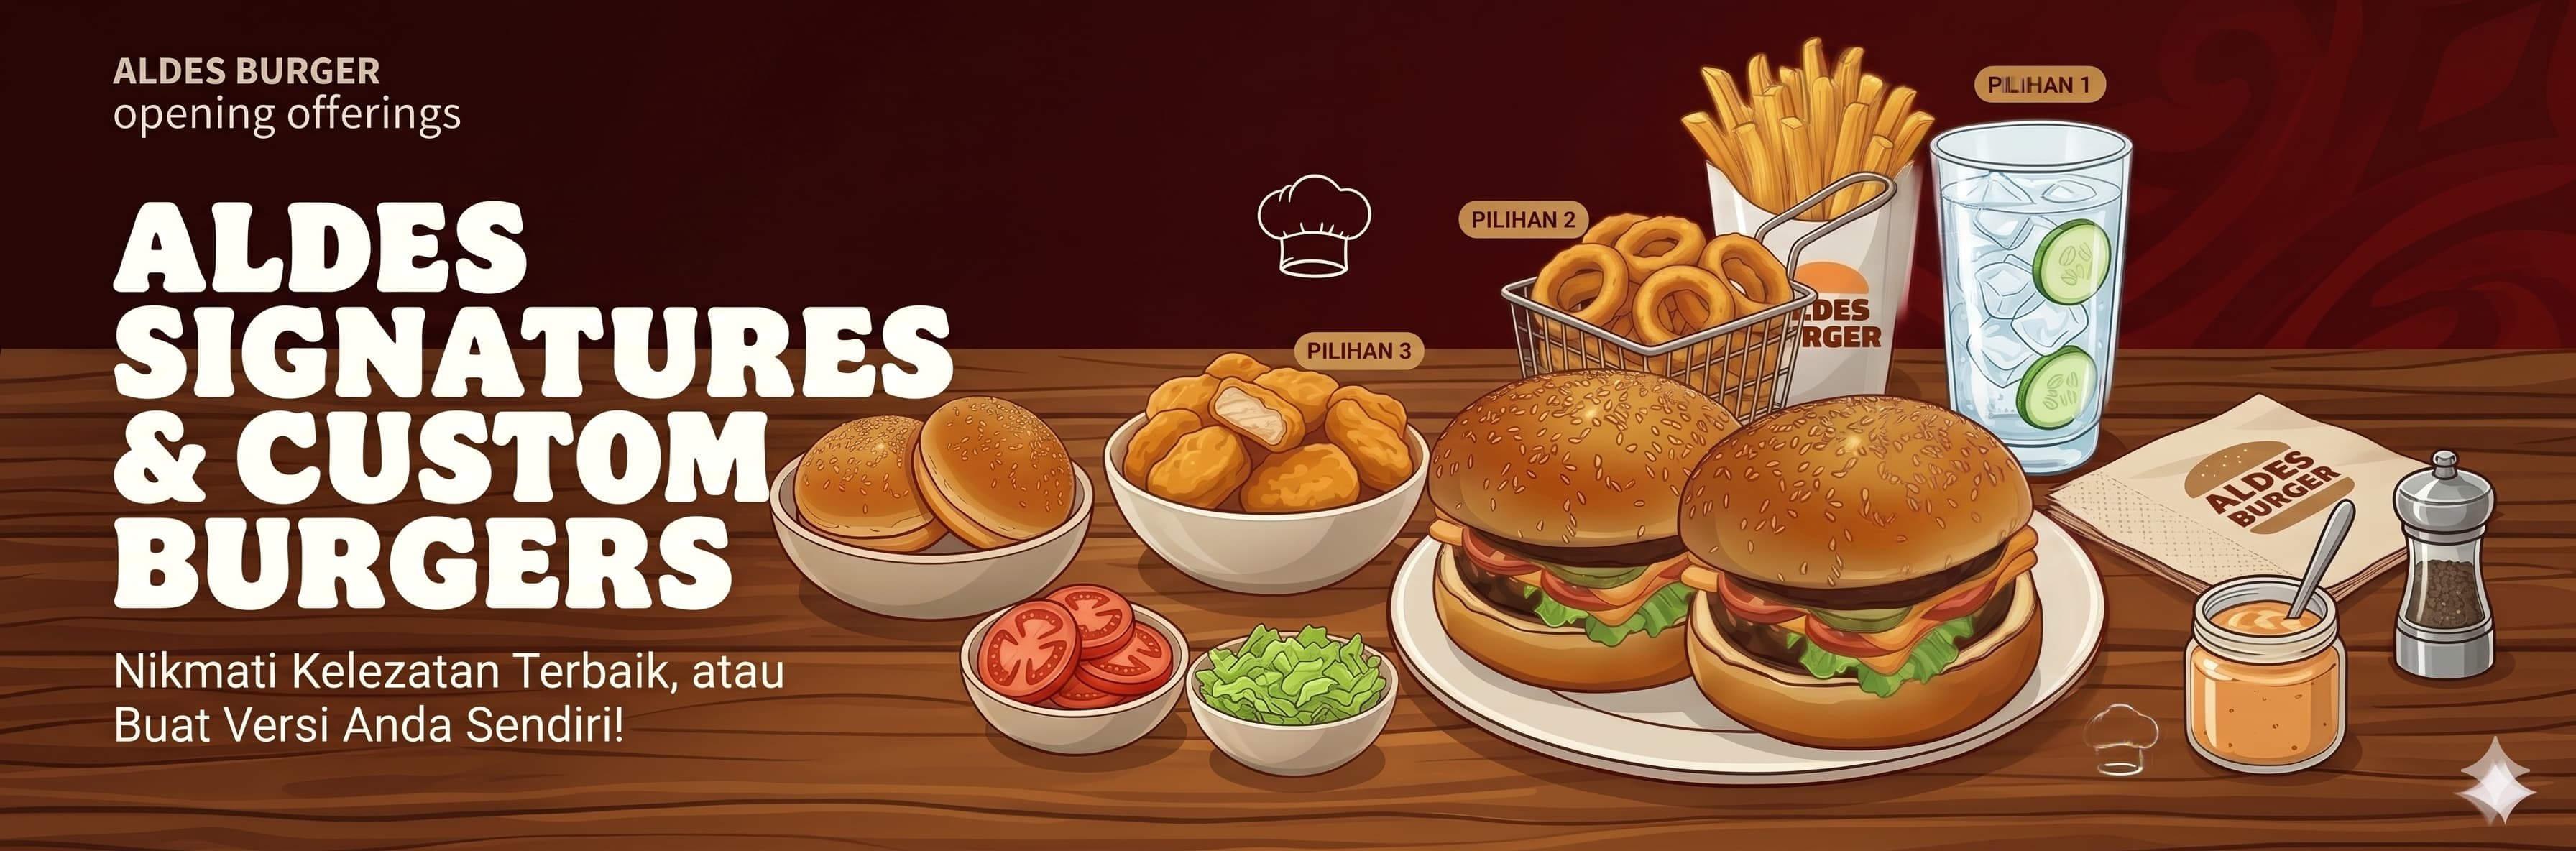
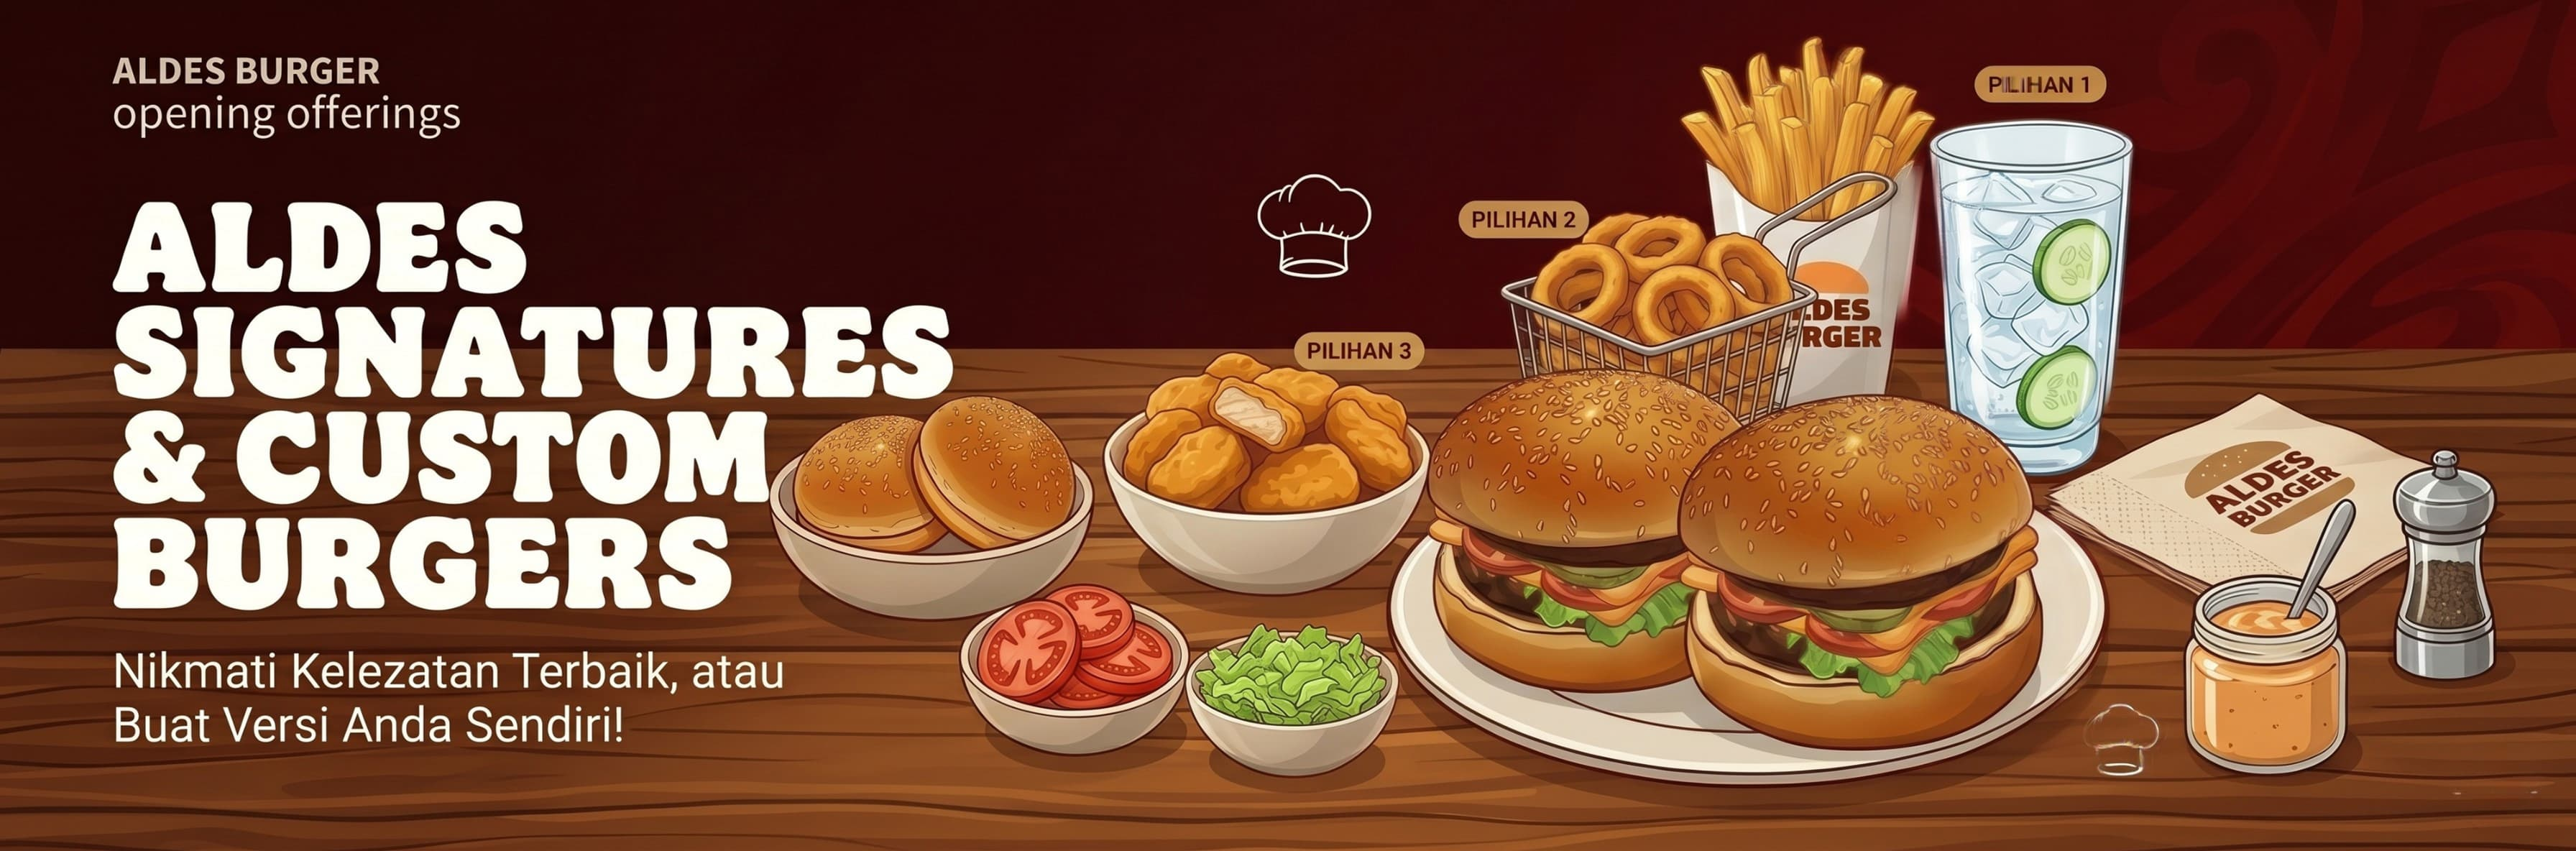
update the language to english

diff --git a/aldes-burger-frontend/src/context/CartContext.jsx b/aldes-burger-frontend/src/context/CartContext.jsx
@@ -1,10 +1,24 @@
 import { createContext, useContext, useEffect, useMemo, useState } from 'react'
 
 const CartContext = createContext(null)
-const CART_STORAGE_KEY = 'aldes_cart'
+
+// --- DYNAMIC STORAGE KEY RESOLUTION BASED ON USER IDENTIFIER ---
+const getCartStorageKey = () => {
+  try {
+    const rawUser = localStorage.getItem('aldes_user')
+    if (rawUser) {
+      const user = JSON.parse(rawUser)
+      if (user?.id) return `aldes_cart_user_${user.id}`
+    }
+  } catch (e) {
+    console.error('Failed to resolve dynamic user storage key:', e)
+  }
+  return 'aldes_cart_guest'
+}
 
 const loadStoredCart = () => {
-  const rawCart = localStorage.getItem(CART_STORAGE_KEY)
+  const dynamicKey = getCartStorageKey()
+  const rawCart = localStorage.getItem(dynamicKey)
   if (!rawCart) return []
   try {
     const parsed = JSON.parse(rawCart)
@@ -69,9 +83,27 @@ const normalizeCartItem = (inputItem) => {
 export function CartProvider({ children }) {
   const [cart, setCart] = useState(loadStoredCart)
 
+  // Sync state mutation into the corresponding active dynamic key partition
   useEffect(() => {
-    localStorage.setItem(CART_STORAGE_KEY, JSON.stringify(cart))
+    const dynamicKey = getCartStorageKey()
+    localStorage.setItem(dynamicKey, JSON.stringify(cart))
   }, [cart])
+
+  // Monitor framework or session level alterations (e.g., login, signup, logout context modifications)
+  useEffect(() => {
+    const handleSessionalRealignment = () => {
+      setCart(loadStoredCart())
+    }
+
+    window.addEventListener('storage', handleSessionalRealignment)
+    // Custom trigger event hook for local execution flows moving within identical single tab windows
+    window.addEventListener('aldes_auth_sync', handleSessionalRealignment)
+
+    return () => {
+      window.removeEventListener('storage', handleSessionalRealignment)
+      window.removeEventListener('aldes_auth_sync', handleSessionalRealignment)
+    }
+  }, [])
 
   const cartCount = useMemo(() => cart.length, [cart])
 

diff --git a/aldes-burger-frontend/src/pages/TransactionDetail.jsx b/aldes-burger-frontend/src/pages/TransactionDetail.jsx
@@ -80,17 +80,17 @@ function TransactionDetail() {
           navigate('/payment-status?status=success')
         },
         onPending: () => {
-          alert('Pembayaran Anda sedang diproses. Silakan tunggu.')
+          alert('Your payment is being processed. Please wait.')
         },
         onError: () => {
           navigate('/payment-status?status=failed')
         },
         onClose: () => {
-          alert('Anda menutup jendela pembayaran. Status pesanan tetap menunggu pembayaran.')
+          alert('You closed the payment window. The order status remains pending.')
         }
       })
     } else {
-      alert('Gagal memuat token pembayaran. Pastikan API backend Vercel menyertakan kolom snap_token.')
+      alert('Failed to load payment token. Please ensure the backend includes snap_token.')
     }
   }
 
@@ -99,7 +99,7 @@ function TransactionDetail() {
       <main className="flex min-h-screen items-center justify-center bg-aldesCream px-4">
         <div className="flex flex-col items-center gap-3 rounded-3xl bg-white p-8 shadow-[4px_4px_0_0_#000] border-[3px] border-black">
           <Loader2 className="h-8 w-8 animate-spin text-aldesRed" />
-          <p className="font-black uppercase text-gray-700 tracking-wider">Memuat transaksi...</p>
+          <p className="font-black uppercase text-gray-700 tracking-wider">Loading transaction...</p>
         </div>
       </main>
     )
@@ -110,7 +110,7 @@ function TransactionDetail() {
       <main className="flex min-h-screen items-center justify-center bg-aldesCream px-4">
         <div className="rounded-3xl bg-white p-8 shadow-[4px_4px_0_0_#000] border-[3px] border-black">
           <p className="font-black uppercase text-gray-800">
-            Transaksi tidak ditemukan.
+            Transaction not found.
           </p>
         </div>
       </main>
@@ -145,7 +145,7 @@ function TransactionDetail() {
                 statusClass[transaction.status] || 'bg-gray-100 text-gray-700 border-gray-300'
               }`}
             >
-              {transaction.status === 'pending' ? 'Menunggu Pembayaran' : transaction.status}
+              {transaction.status === 'pending' ? 'Pending Payment' : transaction.status}
             </span>
           </div>
         </div>
@@ -156,7 +156,7 @@ function TransactionDetail() {
           <div className="rounded-3xl bg-white p-5 shadow-[4px_4px_0_0_#000] border-[3px] border-black">
             <div className="mb-3 flex items-center gap-2">
               <MapPin className="h-5 w-5 text-aldesRed" strokeWidth={3} />
-              <p className="font-black uppercase text-gray-900 text-sm">Alamat Pengiriman</p>
+              <p className="font-black uppercase text-gray-900 text-sm">Delivery Address</p>
             </div>
             <p className="text-sm font-bold text-gray-600 leading-relaxed uppercase">
               {transaction.destination_address}
@@ -168,7 +168,7 @@ function TransactionDetail() {
             <div>
               <div className="mb-3 flex items-center gap-2">
                 <CreditCard className="h-5 w-5 text-aldesRed" strokeWidth={3} />
-                <p className="font-black uppercase text-gray-900 text-sm">Pembayaran</p>
+                <p className="font-black uppercase text-gray-900 text-sm">Payment Method</p>
               </div>
               <p className="text-sm font-bold text-gray-600 uppercase">
                 {transaction.payment?.method?.replace('_', ' ') || '-'}
@@ -185,20 +185,20 @@ function TransactionDetail() {
                      onClick={handleContinuePayment}
                     className="rounded-lg bg-aldesYellow px-3 py-1.5 text-[11px] font-black uppercase text-black border-2 border-black shadow-[2px_2px_0_0_#000] hover:bg-yellow-400 active:translate-y-[1px] active:translate-x-[1px] active:shadow-none transition-all flex items-center gap-1"
                   >
-                    Lanjutkan Pembayaran
+                    Continue Payment
                   </button>
                 ) : (
                   <span className="rounded-lg bg-orange-100 px-3 py-1 text-[10px] font-black uppercase text-orange-700 border-2 border-orange-700">
-                    Menunggu Pembayaran
+                    Pending Payment
                   </span>
                 )
               ) : transaction.status === 'cancelled' ? (
                 <span className="rounded-lg bg-red-100 px-3 py-1 text-[10px] font-black uppercase text-red-700 border-2 border-red-700">
-                  Dibatalkan
+                  Cancelled
                 </span>
               ) : (
                 <span className="rounded-lg bg-green-100 px-3 py-1 text-[10px] font-black uppercase text-green-700 border-2 border-green-700 shadow-[2px_2px_0_0_#15803d]">
-                  Lunas / Paid
+                  Paid
                 </span>
               )}
             </div>
@@ -208,7 +208,7 @@ function TransactionDetail() {
         {/* Detail Item Pesanan */}
         <div className="rounded-3xl bg-white p-6 shadow-[5px_5px_0_0_#000] border-[3px] border-black">
           <h2 className="mb-4 text-lg font-black uppercase text-gray-900">
-            Detail Pesanan
+            Order Details
           </h2>
           <div className="space-y-3">
             {(transaction.details || []).map((item) => (
@@ -236,7 +236,7 @@ function TransactionDetail() {
         {/* Ringkasan Jumlah Pembayaran */}
         <div className="rounded-3xl bg-white p-6 shadow-[5px_5px_0_0_#000] border-[3px] border-black">
           <h2 className="mb-4 text-lg font-black uppercase text-gray-900">
-            Ringkasan Pembayaran
+            Payment Summary
           </h2>
           <div className="space-y-3">
             <div className="flex justify-between text-gray-600 font-bold uppercase text-sm">

diff --git a/aldes-burger-frontend/src/pages/LandingPage.jsx b/aldes-burger-frontend/src/pages/LandingPage.jsx
@@ -17,24 +17,24 @@ const customerReviews = [
   {
     id: 1,
     name: "Alex Johnson",
-    stack: "Custom: Double Beef + Extra Cheddar + Smokey BBQ",
+    stack: "Custom: Double Beef + Cheddar Cheese + Secret Sauce",
     comment: "Absolutely incredible! The burger arrived piping hot and the cheese was perfectly melted on the first bite. Will definitely customize my recipe again next week.",
     rating: 5,
-    time: "24 Mins Delivery"
+    time: "30 Mins Delivery"
   },
   {
     id: 2,
     name: "Clarissa Vance",
-    stack: "Custom: Crispy Chicken + Melted Mozzarella + No Onions",
+    stack: "Custom: Crispy Chicken + Pickles + Cheddar Cheese + Ketchup",
     comment: "As someone who hates onions, this custom builder is a lifesaver. Delivery was incredibly fast and the chicken patty was still super crispy!",
     rating: 5,
-    time: "19 Mins Delivery"
+    time: "32 Mins Delivery"
   },
   {
     id: 3,
     name: "Ryan Gallagher",
-    stack: "Preset: Spicy Monster Stack",
-    comment: "The volcano sauce really brings the heat! The beef patty was thick, rich, and juicy. Neatly packed so nothing fell apart during transit.",
+    stack: "Preset: Beef Burger + No Onion",
+    comment: "The Secret sauce really brings the heat! The beef patty was thick, rich, and juicy. Neatly packed so nothing fell apart during transit.",
     rating: 5,
     time: "28 Mins Delivery"
   }
@@ -153,7 +153,7 @@ function LandingPage() {
         }} />
 
         <div className="sticky top-0 h-screen w-full flex flex-col items-center justify-center overflow-hidden">
-          <div className="absolute top-[15%] text-center z-50 px-4 w-full">
+          <div className="absolute top-[20%] text-center z-50 px-4 w-full">
             <h2 className="text-4xl md:text-5xl font-black uppercase tracking-tighter text-black">
               See How It Comes Together
             </h2>
@@ -163,7 +163,7 @@ function LandingPage() {
           </div>
 
           <div className="relative w-full h-[400px] max-w-2xl mt-16">
-            <div className={`absolute top-[10%] right-4 md:right-16 bg-white border-[4px] border-black px-5 py-3 rounded-2xl shadow-[6px_6px_0_0_#D52518] z-[60] transition-all duration-500 transform ${progress >= 0.9 ? 'opacity-100 translate-y-0' : 'opacity-0 translate-y-10'}`}>
+            <div className={`absolute top-[17%] right-4 md:right-16 bg-white border-[4px] border-black px-5 py-3 rounded-2xl shadow-[6px_6px_0_0_#D52518] z-[60] transition-all duration-500 transform ${progress >= 0.9 ? 'opacity-100 translate-y-0' : 'opacity-0 translate-y-10'}`}>
                 <p className="text-[10px] font-black uppercase text-gray-500">Your Masterpiece</p>
                 <p className="text-2xl font-black italic text-black">Rp 36.500</p>
                 <button onClick={handleStartCustomizing} className="mt-2 bg-aldesRed text-white text-xs px-3 py-1.5 rounded-lg border-2 border-black font-black uppercase w-full hover:bg-black transition-colors">Order Now</button>
@@ -175,7 +175,7 @@ function LandingPage() {
             <img src={imgCheese} alt="Cheese" className="absolute top-1/2 left-1/2 w-48 md:w-56 object-contain z-30 drop-shadow-2xl" style={getStyle(250, 80, 45, 0, 109, 0)} />
             <img src={imgLettuce} alt="Lettuce" className="absolute top-1/2 left-1/2 w-48 md:w-56 object-contain z-40 drop-shadow-2xl" style={getStyle(-200, 0, -20, 0, 79, 0)} />
             <img src={imgTomato} alt="Tomato" className="absolute top-1/2 left-1/2 w-48 md:w-56 object-contain z-40 drop-shadow-2xl" style={getStyle(200, -80, 60, 0, 82, 0)} />
-            <img src={imgTop} alt="Top Bun" className="absolute top-1/2 left-1/2 w-48 md:w-56 object-contain z-50 drop-shadow-2xl" style={getStyle(0, -400, -15, 0, 58, 0)} />
+            <img src={imgTop} alt="Top Bun" className="absolute top-1/2 left-1/2 w-48 md:w-56 object-contain z-50 drop-shadow-2xl" style={getStyle(0, -330, -15, 0, 58, 0)} />
           </div>
         </div>
       </section>

diff --git a/aldes-burger-frontend/src/pages/AddressBook.jsx b/aldes-burger-frontend/src/pages/AddressBook.jsx
@@ -126,14 +126,14 @@ function AddressBook() {
   }
 
   return <main className="flex min-h-screen items-center justify-center bg-aldesCream px-4 py-8"><section className="w-full max-w-3xl rounded-3xl bg-white p-6 shadow-md sm:p-8"><div className="mb-6 flex items-start justify-between"><h1 className="text-2xl font-black">{isEditMode ? 'Edit Delivery Address' : 'Add Delivery Address'}</h1><MapPin className="h-6 w-6" /></div><form onSubmit={submit} className="space-y-3"><input value={form.recipient_name} onChange={(e)=>setForm((p)=>({ ...p, recipient_name: e.target.value }))} placeholder="recipient name" className="w-full rounded-2xl border px-4 py-3" required/><input value={form.phone_number} onChange={(e)=>setForm((p)=>({ ...p, phone_number: e.target.value }))} placeholder="phone number" className="w-full rounded-2xl border px-4 py-3" required/><select value={form.province} onChange={(e)=>setForm((p)=>({ ...p, province: e.target.value, city: '', district: '', postal_code: '' }))} className="w-full rounded-2xl border px-4 py-3" required><option value="">Select Province</option>{provinceOptions.map((x)=><option key={x.id} value={x.name}>{x.name}</option>)}</select><select value={form.city} onChange={(e)=>setForm((p)=>({ ...p, city: e.target.value, district: '', postal_code: '' }))} className="w-full rounded-2xl border px-4 py-3" required disabled={!form.province}><option value="">Select City/Regency</option>{cityOptions.map((x)=><option key={x.id} value={x.name}>{x.name}</option>)}</select><select value={form.district} onChange={(e)=>setForm((p)=>({ ...p, district: e.target.value, postal_code: '' }))} className="w-full rounded-2xl border px-4 py-3" required disabled={!form.city}><option value="">Select District</option>{districtOptions.map((x)=><option key={x.id} value={x.name}>{x.name}</option>)}</select><input list="postal-code-options" value={form.postal_code} onChange={(e)=>setForm((p)=>({ ...p, postal_code: e.target.value.replace(/[^0-9]/g, '').slice(0, 5) }))} placeholder={form.district ? 'Select or type Postal Code' : 'Select district first'} className="w-full rounded-2xl border px-4 py-3" required disabled={!form.district}/><datalist id="postal-code-options">{postalCodeOptions.map((x)=><option key={x.postalCode} value={x.postalCode}>{x.postalCode}</option>)}</datalist><input value={form.street_address} onChange={(e)=>setForm((p)=>({ ...p, street_address: e.target.value, pin_source:'default', pin_confirmed:false }))} placeholder="street address" className="w-full rounded-2xl border px-4 py-3" required/><input value={form.detail_address} onChange={(e)=>setForm((p)=>({ ...p, detail_address: e.target.value }))} placeholder="detail address" className="w-full rounded-2xl border px-4 py-3" />
-  {!form.postal_code && <p className="text-sm text-gray-500">Pilih atau ketik postal code dulu supaya saran street address muncul.</p>}
-  {form.district && postalCodeOptions.length === 0 && <p className="text-sm text-gray-500">Rekomendasi postal code belum tersedia, silakan ketik manual 5 digit.</p>}
+  {!form.postal_code && <p className="text-sm text-gray-500">Please select or type a postal code first to see street suggestions.</p>}
+  {form.district && postalCodeOptions.length === 0 && <p className="text-sm text-gray-500">Postal code recommendations are unavailable, please type 5 digits manually.</p>}
   {isSearching && <p className="text-sm text-gray-500">Searching address suggestions…</p>}
   {!isSearching && form.street_address.trim().length >= 3 && suggestions.length === 0 && !suggestionError && <p className="text-sm text-gray-500">No suggestions found.</p>}
   {suggestionError && <p className="text-sm text-aldesRed">{suggestionError}</p>}
   {suggestions.length>0 && <div className="rounded-xl border p-2">{suggestions.map((s)=><button type="button" key={s.id} className="block w-full text-left p-2 hover:bg-gray-50" onClick={()=>setForm((p)=>applySuggestionToForm(p, s))}><div className="font-semibold">{s.title}</div><div className="text-sm text-gray-500">{s.formattedAddress}</div></button>)}</div>}
   <div className="text-sm rounded-xl bg-gray-50 px-3 py-2">{[form.province, form.city, form.district, form.postal_code].filter(Boolean).join(', ')}</div>
-  <div className="grid grid-cols-3 gap-2"><button type="button" onClick={async()=>{navigator.geolocation.getCurrentPosition(async (pos)=>{const latitude = Number(pos.coords.latitude.toFixed(8)); const longitude = Number(pos.coords.longitude.toFixed(8)); setForm((p)=>applyCurrentLocationToForm(p, latitude, longitude)); try { const r = await reverseGeocode(latitude, longitude); if (r.formattedAddress) setForm((p)=>({ ...p, street_address: p.street_address || r.formattedAddress })) } catch { /* noop */ } })}} className="rounded-xl border p-2">Use Current Location</button><select value={form.label ?? 'Home'} onChange={(e)=>setForm((p)=>({...p,label:e.target.value}))} className="rounded-xl border p-2"><option>Home</option><option>Work</option><option>Other</option></select><label className="flex items-center gap-2"><input type="checkbox" checked={!!form.is_default} onChange={(e)=>setForm((p)=>({...p,is_default:e.target.checked}))}/>Set as default</label></div><div className="text-sm">{hasValidPinValue ? `Pin: ${form.latitude}, ${form.longitude}` : 'No location pin selected'}</div>{hasStreetAddress ? <div ref={mapElRef} className="h-72 w-full overflow-hidden rounded-3xl border" /> : <div className="h-72 w-full rounded-3xl border bg-gray-50 text-sm text-gray-500 grid place-items-center">Isi street address dulu untuk menampilkan map.</div>}{!hasValidPinValue && <p className="text-sm text-aldesRed">Choose a location from the suggestions or set a map pin so the courier can find your address.</p>}{error && <p className="text-sm text-aldesRed">{error}</p>}<div className="flex justify-end gap-3"><button type="button" onClick={() => navigate('/profile')} className="inline-flex items-center gap-2 rounded-2xl border px-4 py-2.5 text-sm font-semibold"><X className="h-4 w-4" /> Cancel</button><button type="submit" disabled={!canSubmit || isSaving} className="inline-flex items-center gap-2 rounded-2xl bg-aldesRed px-5 py-2.5 text-sm font-semibold text-white disabled:opacity-50"><Save className="h-4 w-4" /> Save Address</button></div></form></section></main>
+  <div className="grid grid-cols-3 gap-2"><button type="button" onClick={async()=>{navigator.geolocation.getCurrentPosition(async (pos)=>{const latitude = Number(pos.coords.latitude.toFixed(8)); const longitude = Number(pos.coords.longitude.toFixed(8)); setForm((p)=>applyCurrentLocationToForm(p, latitude, longitude)); try { const r = await reverseGeocode(latitude, longitude); if (r.formattedAddress) setForm((p)=>({ ...p, street_address: p.street_address || r.formattedAddress })) } catch { /* noop */ } })}} className="rounded-xl border p-2">Use Current Location</button><select value={form.label ?? 'Home'} onChange={(e)=>setForm((p)=>({...p,label:e.target.value}))} className="rounded-xl border p-2"><option>Home</option><option>Work</option><option>Other</option></select><label className="flex items-center gap-2"><input type="checkbox" checked={!!form.is_default} onChange={(e)=>setForm((p)=>({...p,is_default:e.target.checked}))}/>Set as default</label></div><div className="text-sm">{hasValidPinValue ? `Pin: ${form.latitude}, ${form.longitude}` : 'No location pin selected'}</div>{hasStreetAddress ? <div ref={mapElRef} className="h-72 w-full overflow-hidden rounded-3xl border" /> : <div className="h-72 w-full rounded-3xl border bg-gray-50 text-sm text-gray-500 grid place-items-center">Fill in the street address first to display the map.</div>}{!hasValidPinValue && <p className="text-sm text-aldesRed">Choose a location from the suggestions or set a map pin so the courier can find your address.</p>}{error && <p className="text-sm text-aldesRed">{error}</p>}<div className="flex justify-end gap-3"><button type="button" onClick={() => navigate('/profile')} className="inline-flex items-center gap-2 rounded-2xl border px-4 py-2.5 text-sm font-semibold"><X className="h-4 w-4" /> Cancel</button><button type="submit" disabled={!canSubmit || isSaving} className="inline-flex items-center gap-2 rounded-2xl bg-aldesRed px-5 py-2.5 text-sm font-semibold text-white disabled:opacity-50"><Save className="h-4 w-4" /> Save Address</button></div></form></section></main>
 }
 
 export default AddressBook

diff --git a/aldes-burger-frontend/src/pages/Transactions.jsx b/aldes-burger-frontend/src/pages/Transactions.jsx
@@ -41,7 +41,7 @@ function Transactions() {
         setTransactions(data);
         sessionStorage.setItem('aldes_transactions_cache', JSON.stringify(data));
       } catch (error) {
-        console.error("Gagal memuat transaksi:", error);
+        console.error("Failed to load transactions:", error);
       } finally {
         setIsFetching(false);
       }
@@ -150,11 +150,11 @@ function Transactions() {
                     <div>
                       <p className="text-[9px] font-black uppercase tracking-widest text-gray-400">Total Bill</p>
                       <p className={`text-2xl font-black text-black ${order.status?.toLowerCase() === 'cancelled' ? 'opacity-50' : ''}`}>
-                        Rp {order.amount?.toLocaleString('id-ID')}
+                        Rp {order.amount?.toLocaleString('en-US')}
                       </p>
                     </div>
                     <div className="text-right">
-                      <p className="text-[9px] font-bold italic">{new Date(order.created_at).toLocaleDateString('id-ID')}</p>
+                      <p className="text-[9px] font-bold italic">{new Date(order.created_at).toLocaleDateString('en-US', { month: 'short', day: 'numeric', year: 'numeric' })}</p>
                       <div className="mt-1 flex items-center gap-1 rounded-lg border border-black bg-[#FDF8EE] px-2 py-1 shadow-[2px_2px_0px_0px_rgba(0,0,0,1)]">
                         <Ticket size={10} />
                         <span className="text-[8px] font-black uppercase">Promo Applied</span>

diff --git a/aldes-burger-frontend/src/utils/auth.js b/aldes-burger-frontend/src/utils/auth.js
@@ -6,11 +6,17 @@ export const getToken = () => localStorage.getItem(TOKEN_KEY)
 export const setAuthSession = ({ token, user }) => {
   if (token) localStorage.setItem(TOKEN_KEY, token)
   if (user) localStorage.setItem(USER_KEY, JSON.stringify(user))
+  
+  // 🔥 Memicu CartContext agar langsung memuat keranjang milik user baru ini
+  window.dispatchEvent(new Event('aldes_auth_sync'))
 }
 
 export const clearAuthSession = () => {
   localStorage.removeItem(TOKEN_KEY)
   localStorage.removeItem(USER_KEY)
+  
+  // 🔥 Memicu CartContext agar langsung mengosongkan layar ke state guest/guest cart
+  window.dispatchEvent(new Event('aldes_auth_sync'))
 }
 
 export const getStoredUser = () => {

diff --git a/aldes-burger-frontend/src/components/Footer.jsx b/aldes-burger-frontend/src/components/Footer.jsx
@@ -168,7 +168,7 @@ function Footer() {
                 <a href="/kitchen" className="transition-colors hover:text-white hover:underline underline-offset-4">Build Your Burger</a>
               </li>
               <li>
-                <a href="#" className="transition-colors hover:text-white hover:underline underline-offset-4">Promo & Offers</a>
+                <a href="/transactions" className="transition-colors hover:text-white hover:underline underline-offset-4">Check Transaction</a>
               </li>
               <li>
                 <a href="/profile" className="transition-colors hover:text-white hover:underline underline-offset-4">My Account</a>